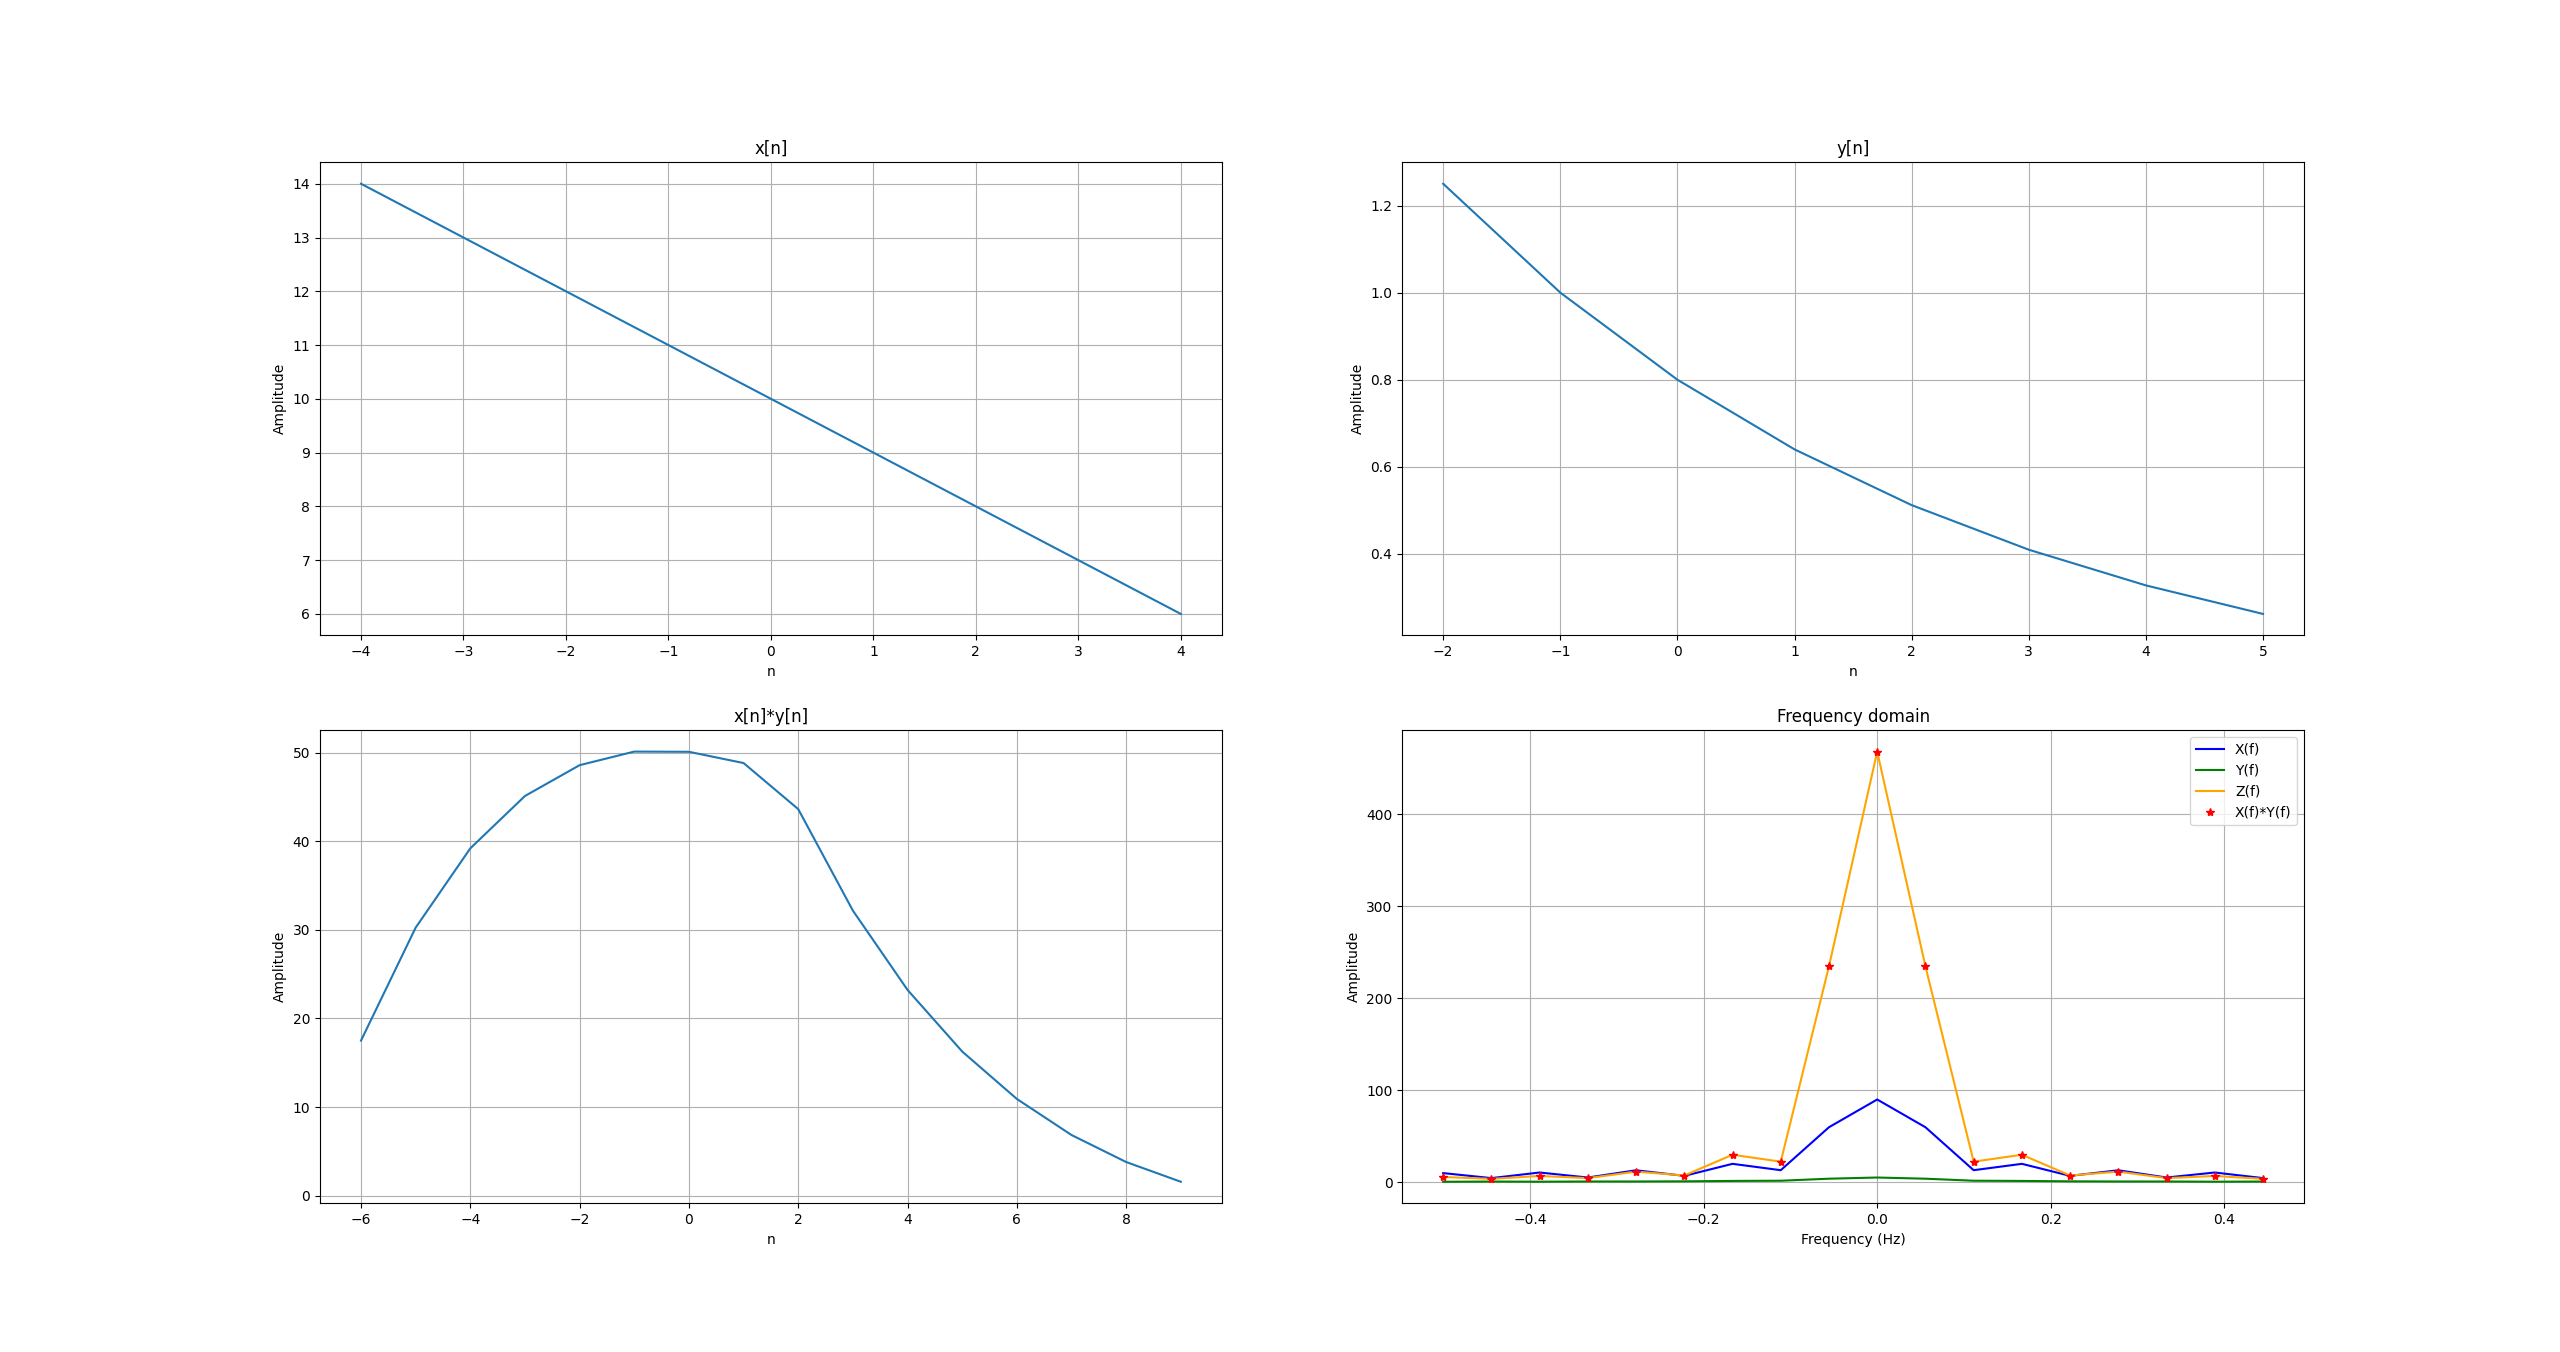
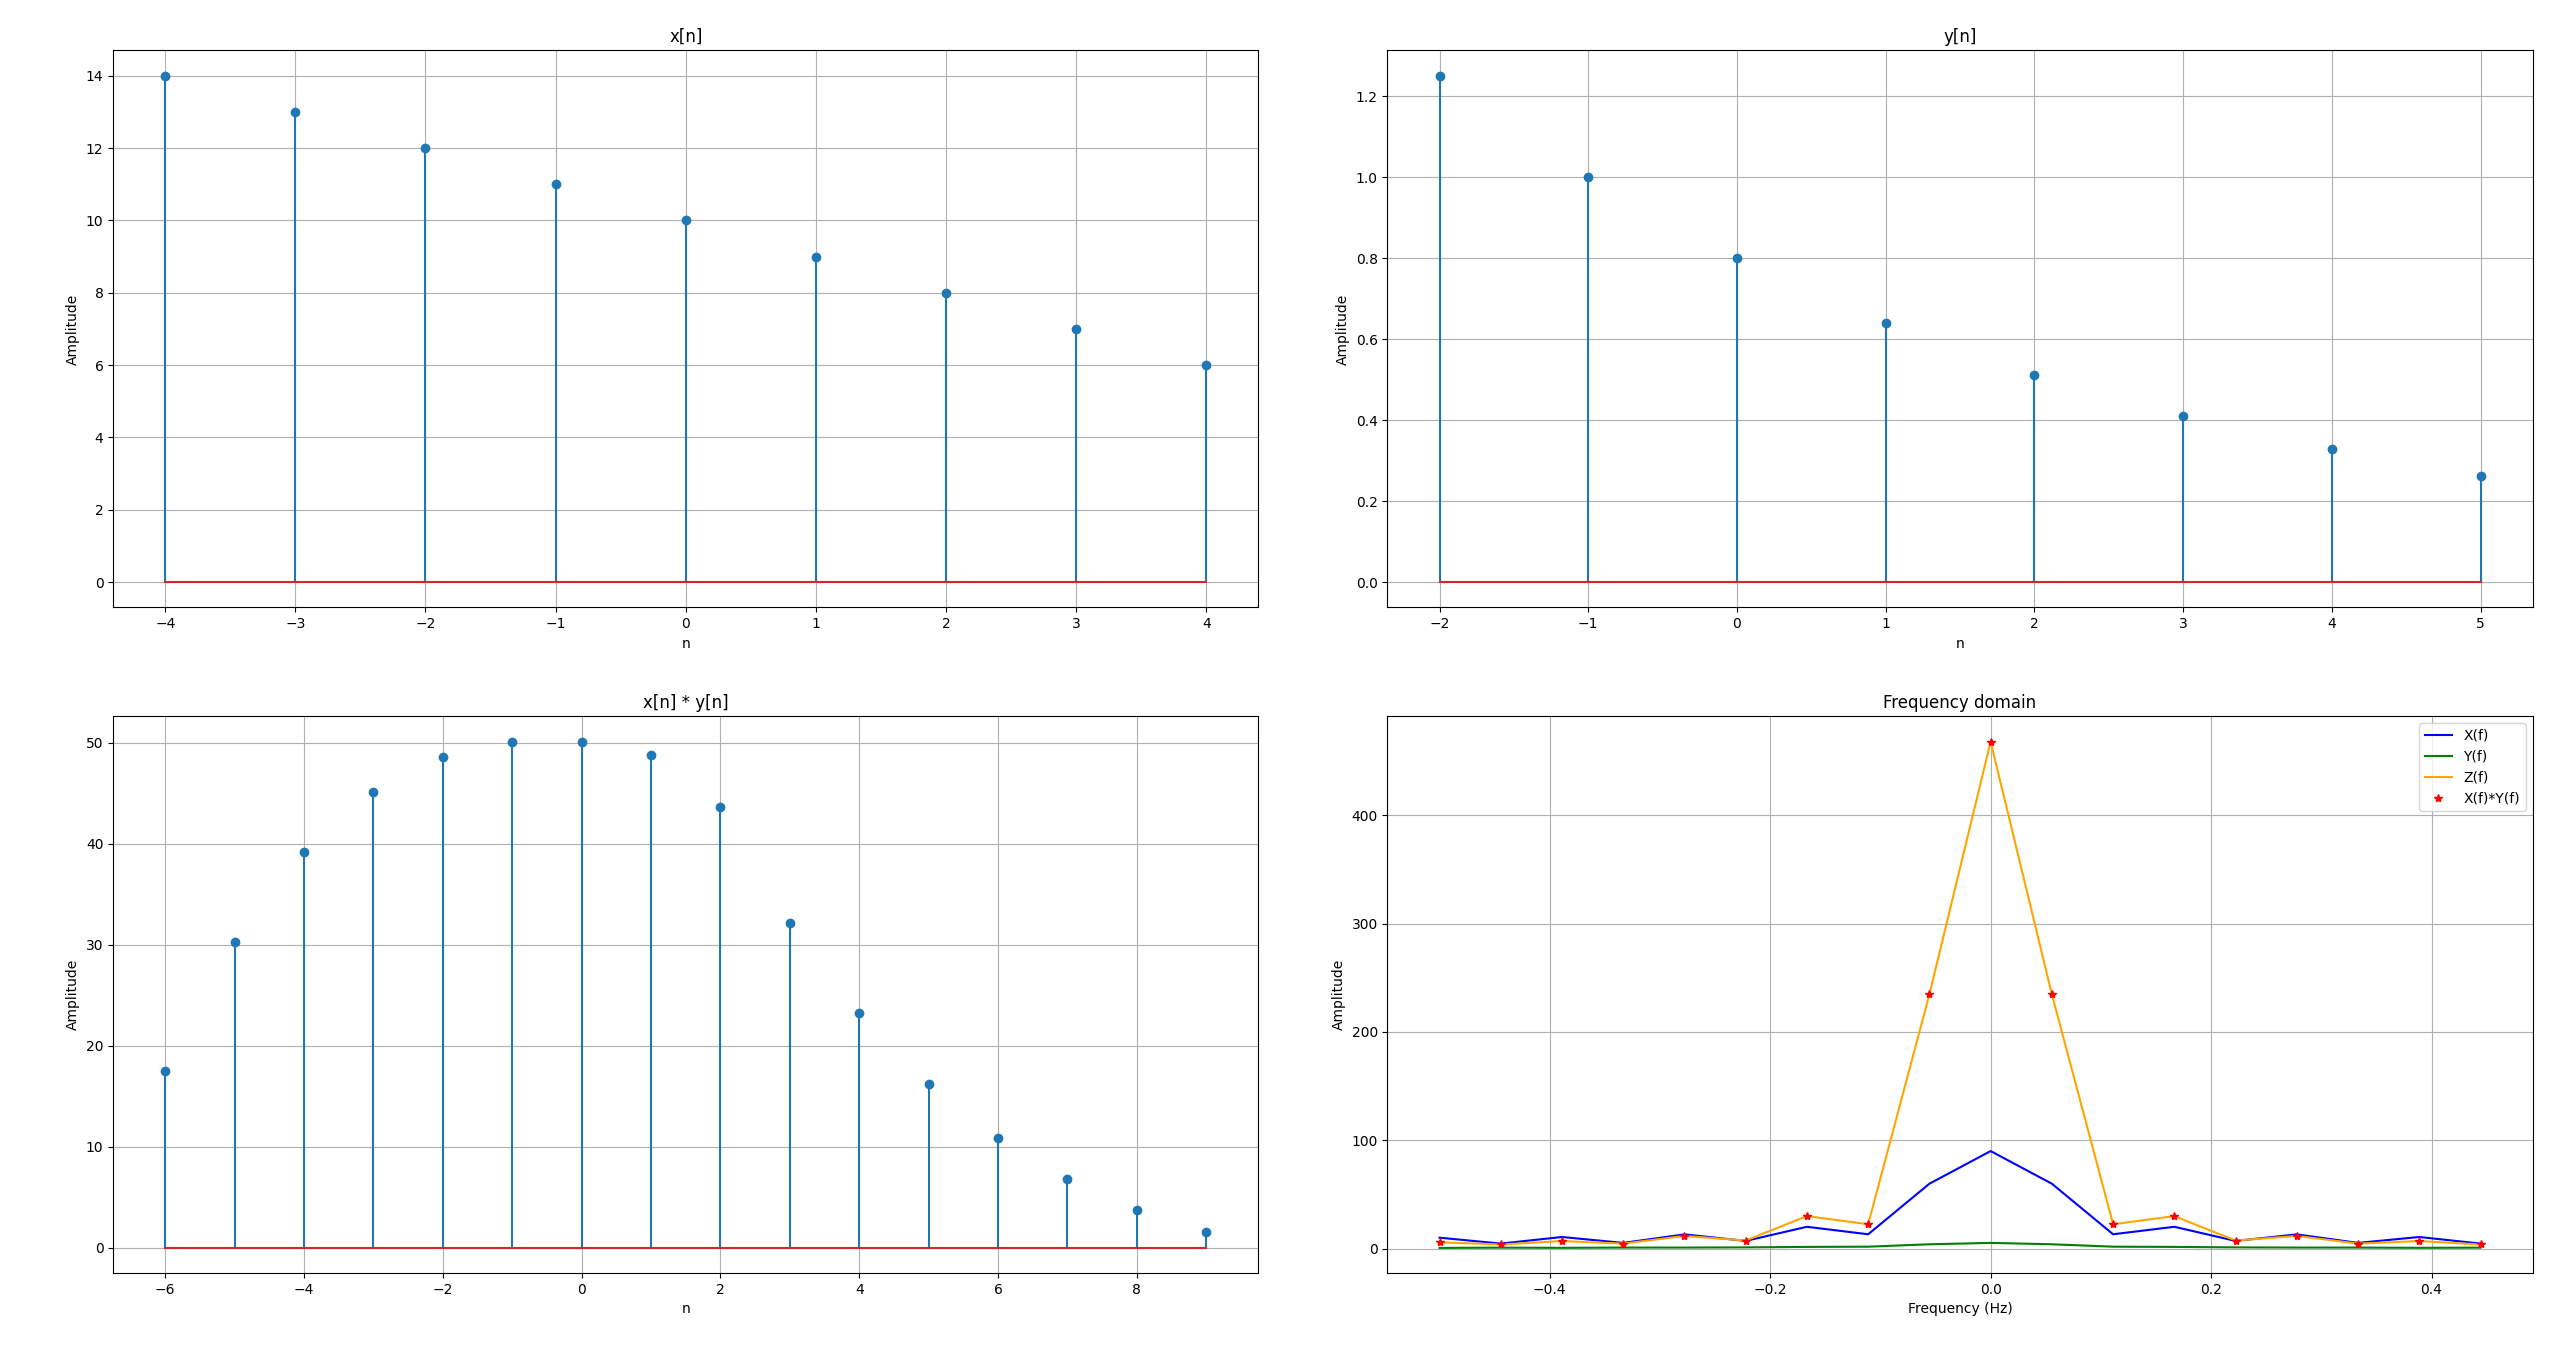
Exercise 1 Fix

diff --git a/Exercise_1.py b/Exercise_1.py
@@ -9,44 +9,66 @@ x = 10-nx
 ny = np.arange(-2,6)
 y = 0.8**(ny+1)
 
-# z[n] = x[n]*y[n]
-z = np.convolve(x,y,mode='full')
-nz = nx[0] + ny[0] + np.arange(len(z))
+# Manual Convolution based on the formula
+len_x = len(x)
+len_y = len(y)
+len_z = len_x + len_y - 1
+z_manual = np.zeros(len_z)
 
-N = len(x) + len(y) + 1 #Length for all frequency domain signals
+# z[n] = Σ x[k]y[n-k]
+for n in range(len_z):
+    for k in range(len_x):
+        if 0 <= n - k < len_y:
+            z_manual[n] += x[k] * y[n - k]
 
-# add zero padding to all FFTs to length N 
+nz = nx[0] + ny[0] + np.arange(len_z)
+
+# Confirmation with numpy.convolve 
+z_numpy = np.convolve(x, y, mode='full')
+# Print confirmation
+is_correct = np.allclose(z_manual, z_numpy)
+print(f"Confirmation of Results of the two Convolutions (Manual vs Numpy): {is_correct}")
+
+z = z_manual 
+
+N = len(x) + len(y) + 1 # Length for all frequency domain signals
+
+# Add zero padding to all FFTs to length N 
 X = np.fft.fft(x, n=N)
 Y = np.fft.fft(y, n=N)
 Z = np.fft.fft(z, n=N)
 freq = np.fft.fftshift(np.fft.fftfreq(N))
 
-#take the product of the ffts of X and Y to see if its the same as the fft of  x * y (convolution)
-Z_product = X*Y 
+# Take the product of the ffts of X and Y to see if its the same as the fft of x * y (convolution)
+Z_product = X * Y 
 
-#shift and take the absolute of the ffts for plotting
+# Shift and take the absolute of the ffts for plotting
 X_shifted = np.abs(np.fft.fftshift(X))
 Y_shifted = np.abs(np.fft.fftshift(Y))
 Z_shifted = np.abs(np.fft.fftshift(Z))
 Z_product_shifted = np.abs(np.fft.fftshift(Z_product))
 
-#plots
-fig, ax = plt.subplots(2, 2, figsize=(14,20))
-ax[0][0].plot(nx,x)
+# Plots
+fig, ax = plt.subplots(2, 2, figsize=(14,10))
+
+ax[0][0].stem(nx, x)
 ax[0][0].set_title("x[n]")
 ax[0][0].grid(True)
 ax[0][0].set_xlabel("n")
 ax[0][0].set_ylabel("Amplitude")
-ax[0][1].plot(ny,y)
+
+ax[0][1].stem(ny, y)
 ax[0][1].set_title("y[n]")
 ax[0][1].grid(True)
 ax[0][1].set_xlabel("n")
 ax[0][1].set_ylabel("Amplitude")
-ax[1][0].plot(nz,z)
-ax[1][0].set_title("x[n]*y[n]")
+
+ax[1][0].stem(nz, z)
+ax[1][0].set_title("x[n] * y[n]")
 ax[1][0].grid(True)
 ax[1][0].set_xlabel("n")
 ax[1][0].set_ylabel("Amplitude")
+
 ax[1][1].plot(freq, X_shifted, label='X(f)', color='blue')
 ax[1][1].plot(freq, Y_shifted, label='Y(f)', color='green')
 ax[1][1].plot(freq, Z_shifted, label='Z(f)', color='orange')
@@ -57,6 +79,5 @@ ax[1][1].set_ylabel("Amplitude")
 ax[1][1].grid(True)
 ax[1][1].legend()
 
+plt.tight_layout()
 plt.show()
-
-
